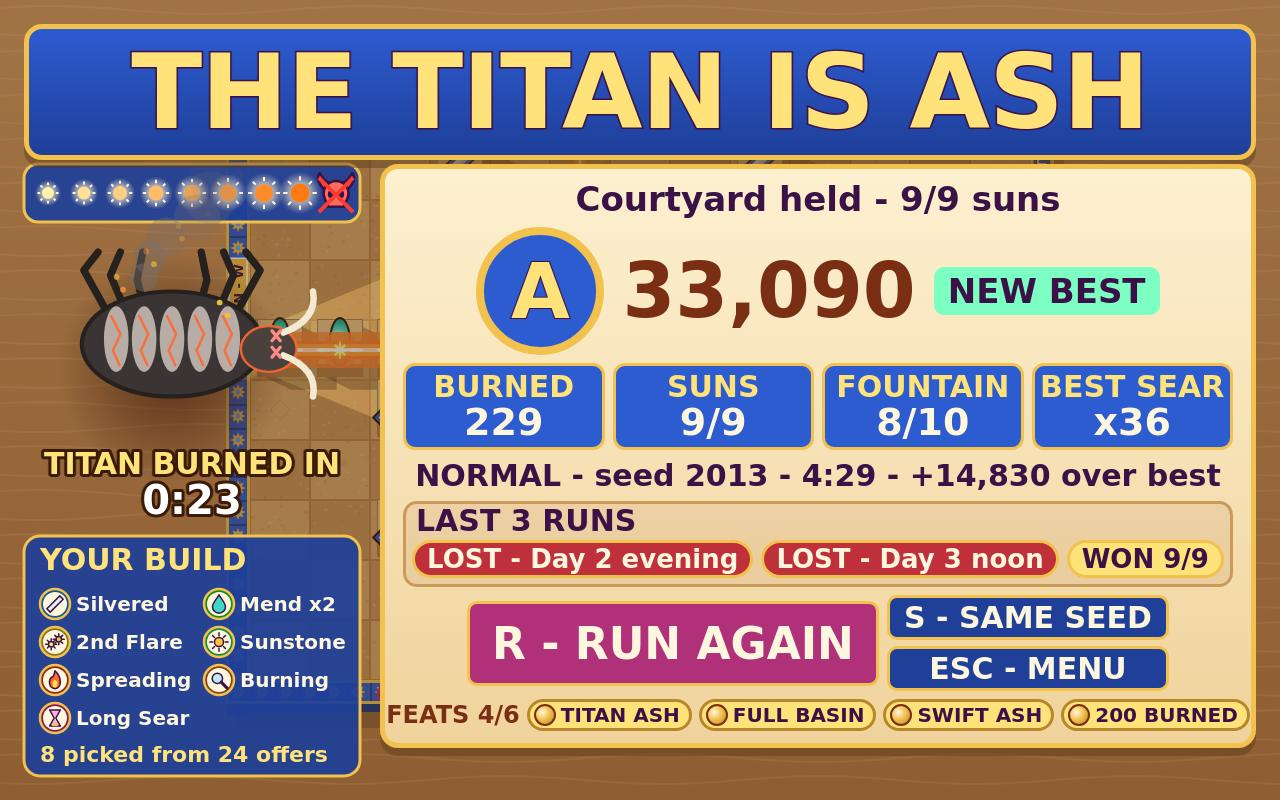
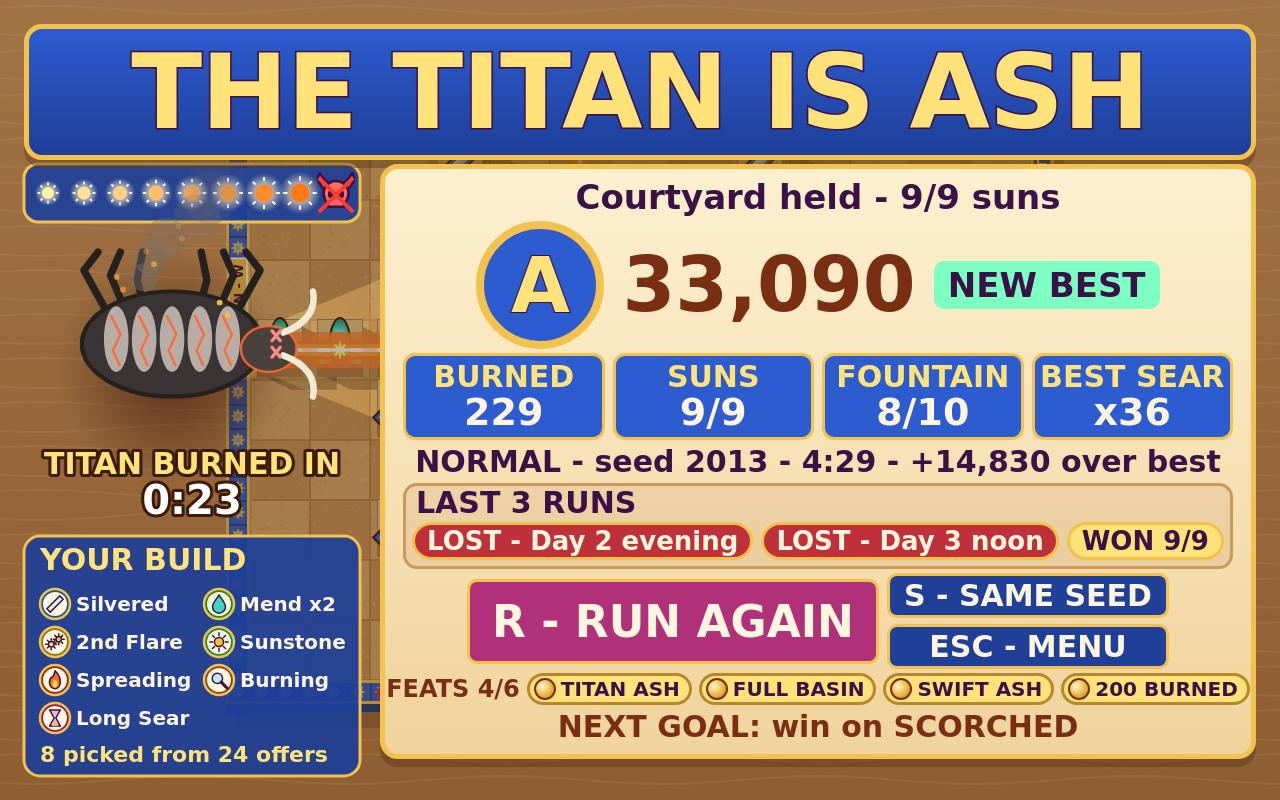
Bring back BEST (score tile and beside PLAY), DRY = RUN LOST and NEXT GOAL; drop the dial letters and the flare panel's SPACE so the cover has fewer text items; truth-checked

Changed region(s): [[0.2812, 0.2188, 1.0, 0.9688]]

diff --git a/game/style.css b/game/style.css
@@ -26,9 +26,9 @@ button.big:hover { background: #cf3f93; }
 .rule-win span { color: #ffe27a; }
 .rule-lose span { color: #ffb0a8; }
 .title-card { position: absolute; left: 24px; top: 522px; bottom: 66px; width: 680px; box-sizing: border-box; display: flex; flex-direction: column; align-items: center; justify-content: space-between; padding: 8px 14px; background: rgba(31, 63, 153, 0.8); border: 4px solid #f2c14e; border-radius: 18px; }
-#play-button { font-size: 52px; padding: 0 80px; }
-.play-row { display: flex; align-items: center; gap: 18px; }
-.featcount { font: 900 26px system-ui, sans-serif; color: #3b1247; background: #ffe27a; border: 3px solid #b8862c; border-radius: 16px; padding: 4px 14px; white-space: nowrap; }
+#play-button { font-size: 52px; padding: 0 44px; }
+.play-row { display: flex; align-items: center; gap: 14px; }
+.featcount { font: 900 24px system-ui, sans-serif; color: #3b1247; background: #ffe27a; border: 3px solid #b8862c; border-radius: 16px; padding: 4px 14px; white-space: nowrap; }
 .start-hint { margin: 0; font: 900 34px system-ui, sans-serif; color: #ffe27a; white-space: nowrap; letter-spacing: 0; }
 .picker { display: flex; gap: 8px; width: 100%; }
 .diff { flex: 1; display: flex; flex-direction: column; align-items: center; padding: 0 6px 2px; background: #2d5bd0; border-radius: 16px; letter-spacing: 0; }
@@ -89,7 +89,7 @@ kbd { display: inline-block; min-width: 30px; padding: 0 5px; font: 900 24px sys
 .results-head { position: absolute; left: 24px; right: 24px; top: 24px; height: 126px; display: flex; align-items: center; justify-content: center; overflow: hidden; background: linear-gradient(#2d5bd0, #1f3f99); border: 5px solid #f2c14e; border-radius: 18px; box-shadow: 0 8px 0 rgba(91, 58, 30, 0.45); }
 #results-title { margin: 0; width: max-content; white-space: nowrap; font: 900 104px system-ui, sans-serif; line-height: 1; letter-spacing: -1px; color: #ffe27a; -webkit-text-stroke: 3px #3b1247; paint-order: stroke fill; transform: scaleX(var(--fit, 1)); }
 .lost #results-title { color: #ff8a8a; }
-.sheet.results { position: absolute; right: 24px; top: 164px; width: 876px; box-sizing: border-box; margin: 0; padding: 10px 18px 12px; gap: 8px; background: linear-gradient(#fdf0d0, #f0d39c); border: 5px solid #f2c14e; box-shadow: 0 8px 0 rgba(91, 58, 30, 0.45); }
+.sheet.results { position: absolute; right: 24px; top: 164px; width: 876px; box-sizing: border-box; margin: 0; padding: 8px 18px 10px; gap: 4px; background: linear-gradient(#fdf0d0, #f0d39c); border: 5px solid #f2c14e; box-shadow: 0 8px 0 rgba(91, 58, 30, 0.45); }
 .lost .sheet.results { border-color: #ff8a8a; }
 .results .sub { margin: 0; font-size: 34px; font-weight: 900; color: #3b1247; text-shadow: none; }
 .score { font: 900 76px system-ui, sans-serif; line-height: 1; color: #7a2e14; display: flex; align-items: center; gap: 18px; }
@@ -101,7 +101,8 @@ kbd { display: inline-block; min-width: 30px; padding: 0 5px; font: 900 24px sys
 .stats div { flex: 1; min-width: 0; display: flex; flex-direction: column; align-items: center; justify-content: center; padding: 4px 6px; background: #2d5bd0; border: 3px solid #f2c14e; border-radius: 12px; overflow: hidden; }
 .stats small { display: inline-block; font-size: 30px; font-weight: 900; color: #ffe27a; line-height: 1.1; white-space: nowrap; transform: scaleX(var(--fit, 1)); }
 .stats b { font-size: 38px; font-weight: 900; color: #fff6df; line-height: 1.05; white-space: nowrap; }
-.meta { margin: 0; font: 900 30px system-ui, sans-serif; color: #3b1247; white-space: nowrap; }
+.meta, .next-goal { margin: 0; font: 900 30px system-ui, sans-serif; color: #3b1247; white-space: nowrap; }
+.next-goal { color: #7a2e14; }
 .feats { display: flex; align-items: center; justify-content: center; gap: 7px; }
 .feats b { font: 900 24px system-ui, sans-serif; color: #7a2e14; white-space: nowrap; }
 .feats .feat { display: flex; align-items: center; gap: 5px; padding: 1px 9px 1px 4px; font: 900 20px system-ui, sans-serif; color: #3b1247; background: #ffe27a; border: 3px solid #b8862c; border-radius: 16px; white-space: nowrap; }

diff --git a/game/src/render/hud.js b/game/src/render/hud.js
@@ -20,8 +20,8 @@ const INK = '#FFF6DF';
 const GOLD = '#F2C14E';
 const FONT = 'system-ui, "Segoe UI", sans-serif';
 const PANEL_W = 212;
-/** The left panel: sun dial, then the FOUNTAIN pips (the next sun and the lose rule are said once, elsewhere). */
-const LEFT_PANEL_H = 250;
+/** The left panel: sun dial, then the FOUNTAIN pips with DRY = RUN LOST under them (the next sun is the pill's). */
+const LEFT_PANEL_H = 282;
 const LEFT_X = 6;
 const RIGHT_X = VIEW_W - PANEL_W - 6;
 
@@ -200,7 +200,6 @@ function drawSunDial(ctx, run, cx, cy) {
       ctx.stroke();
       ctx.setLineDash([]);
     }
-    text(ctx, wall[0].toUpperCase(), gx, gy + (wall === 'north' ? -22 : 30), 15, INK, 'center', 900);
   }
 }
 
@@ -241,6 +240,7 @@ function drawFountainPips(ctx, run, y) {
       ctx.stroke();
     }
   }
+  fitLine(ctx, ['EMPTY = RUN LOST', 'DRY = RUN LOST'], LEFT_X + PANEL_W / 2, y + 100, PANEL_W - 20, 20, '#FFB0B0', 'center');
 }
 
 
@@ -396,6 +396,8 @@ function drawRightPanel(ctx, run, ui) {
   panel(ctx, x0, 8, PANEL_W, 128);
   text(ctx, 'SCORE', x0 + 12, 30, 15, INK, 'left', 900);
   text(ctx, run.score.toLocaleString('en-US'), x0 + PANEL_W - 10, 66, 32, '#FFF2A8', 'right', 900);
+  // BEST from the save (a difficulty never finished says so: no "BEST 0").
+  text(ctx, ui.best > 0 ? `BEST ${ui.best.toLocaleString('en-US')}` : 'NO BEST YET', x0 + PANEL_W - 10, 90, 15, '#FFD9A0', 'right', 900);
   drawComboLine(ctx, run, x0, 120);
   panel(ctx, x0, 142, PANEL_W, 62);
   text(ctx, NAMES.currency, x0 + 12, 170, 15, INK, 'left', 900);
@@ -642,10 +644,10 @@ function drawHotbar(ctx, run, ui) {
     ctx.arc(fx + 30, HOTBAR.y + 38, 24, -Math.PI / 2, -Math.PI / 2 + Math.PI * 2 * (run.flareLeft / BEAM.flareSeconds));
     ctx.stroke();
   }
-  text(ctx, 'SPACE', fx + 62, HOTBAR.y + 26, 15, GOLD, 'left', 900);
-  text(ctx, NAMES.flare, fx + 62, HOTBAR.y + 48, 20, INK, 'left', 900);
+  // The key is in the key line (SPACE flare); the panel says what and whether it is ready.
+  text(ctx, NAMES.flare, fx + 62, HOTBAR.y + 36, 20, INK, 'left', 900);
   const flareState = run.flareLeft > 0 ? 'BURNING' : ready ? 'READY' : run.phase === 'wave' ? 'USED' : 'NEXT SUN';
-  text(ctx, flareState, fx + 62, HOTBAR.y + 69, 15, ready ? '#7DFFC4' : '#FFF2A8', 'left', 900);
+  text(ctx, flareState, fx + 62, HOTBAR.y + 60, 15, ready ? '#7DFFC4' : '#FFF2A8', 'left', 900);
   ctx.globalAlpha = 1;
   if (run.phase === 'build') {
     const bx = fx + 150;

diff --git a/game/src/ui/menus.js b/game/src/ui/menus.js
@@ -8,7 +8,7 @@ import { waveRoster } from '../waves.js';
 import { rankFor } from '../combat.js';
 import { runSummary } from '../sim.js';
 import { loadFeats } from '../save.js';
-import { draftContext, draftHeal, draftHint, historyChip, titleRules } from '../announce.js';
+import { draftContext, draftHeal, draftHint, historyChip, nextGoal, titleRules } from '../announce.js';
 import { drawCharmGlyph } from '../render/charms.js';
 import { drawHowtoPicture } from '../render/howto.js';
 import { drawRuleIcon } from '../render/ruleicons.js';
@@ -62,6 +62,8 @@ export function showTitle(menus, bestFor, selected) {
   }).join('');
   el('rule-scope').textContent = SCOPE_LINE;
   el('feats-count').textContent = `FEATS ${loadFeats().length}/${FEATS.length}`;
+  const best = bestFor(selected);
+  el('title-best').textContent = best.played ? `BEST ${best.score.toLocaleString('en-US')}` : 'NO BEST YET';
   // The rules table: icon, gold tag, one line per rule (announce.titleRules, numbers from config).
   el('title-rules').innerHTML = titleRules()
     .map((r) => `<div class="rule rule-${r.icon}"><canvas width="36" height="36" data-icon="${r.icon}"></canvas><b>${escapeHtml(r.tag)}</b><span>${escapeHtml(r.line)}</span></div>`)
@@ -168,6 +170,7 @@ export function showResults(menus, run, record, history) {
     : '';
   // FEATS this run earned, as gold medals (config FEATS, tested on the finished run).
   const earned = runSummary(run).feats;
+  el('results-next').textContent = nextGoal(run);
   el('results-feats').innerHTML = `<b>FEATS ${earned.length}/${FEATS.length}</b>` + earned.map((id) => `<span class="feat"><i></i>${escapeHtml(FEATS.find((f) => f.id === id).name)}</span>`).join('');
 }
 

diff --git a/game/src/announce.js b/game/src/announce.js
@@ -1,6 +1,6 @@
 // The courtyard's voice: turns notable sim events into the three-line event log and the big
 // banner over the board. Pure sim state (no DOM), so screenshots can be checked against it.
-import { NAMES, SCORING, WAVE_COUNT } from './config.js';
+import { DIFFICULTIES, DIFFICULTY_ORDER, NAMES, SCORING, WAVE_COUNT } from './config.js';
 import { sunApertureFor } from './sun.js';
 
 const LOG_LINES = 3;
@@ -106,4 +106,11 @@ export function draftHint(run) {
 /** One RUN HISTORY chip on the results screen, from a saved run summary. */
 export function historyChip(h) {
   return h.outcome === 'won' ? `WON ${h.suns}/${WAVE_COUNT}` : `LOST - Day ${h.day} ${h.phase.toLowerCase()}`;
+}
+
+/** What to aim for next, from a finished run's outcome and difficulty (the results' NEXT GOAL line). */
+export function nextGoal(run) {
+  if (run.phase !== 'won') return `NEXT GOAL: hold ${run.stats.wavesCleared + 1} ${NAMES.suns.toLowerCase()}`;
+  const harder = DIFFICULTY_ORDER[DIFFICULTY_ORDER.indexOf(run.difficultyId) + 1];
+  return harder ? `NEXT GOAL: win on ${DIFFICULTIES[harder].name}` : `NEXT GOAL: beat ${run.score.toLocaleString('en-US')}`;
 }

diff --git a/game/index.html b/game/index.html
@@ -27,7 +27,7 @@
     </div>
     <div id="title-rules" class="rules-table"></div>
     <div class="title-card">
-      <div class="play-row"><button id="play-button" class="big" data-action="play">PLAY</button><span id="feats-count" class="featcount"></span></div>
+      <div class="play-row"><button id="play-button" class="big" data-action="play">PLAY</button><span id="title-best" class="featcount"></span><span id="feats-count" class="featcount"></span></div>
       <p id="start-hint" class="start-hint">CLICK PLAY OR PRESS ENTER</p>
       <div id="difficulty-picker" class="picker"></div>
     </div>
@@ -104,6 +104,7 @@
         </div>
       </div>
       <div id="results-feats" class="feats"></div>
+      <p id="results-next" class="next-goal"></p>
     </div>
   </section>
 </div>

diff --git a/game/src/testhook.js b/game/src/testhook.js
@@ -97,6 +97,7 @@ function resultsText() {
     capElsewhere: elsewhere.length,
     chips: [...strip.querySelectorAll('.chip')].map((n) => ({ text: n.textContent.trim(), won: n.classList.contains('won') })),
     featsLabel: document.querySelector('#results-feats b')?.textContent.trim() ?? '',
+    next: document.getElementById('results-next').textContent.trim(),
     feats: [...document.querySelectorAll('#results-feats .feat')].map((n) => n.textContent.trim()),
   };
 }

diff --git a/NOTES.md b/NOTES.md
@@ -286,6 +286,13 @@
   blue/gold prism light, red-orange for red light (red + gold lighten to orange, never lilac); tinted
   core 9.5 px (cap 11) and a 3 px white-hot centre; +8% while a SEAR combo is live. Kept: no white
   cell squares, lit panes glow on the sprite. Cover: 0 blown 32 px blocks.
+- The three cues the A/B missed are back: BEST under SCORE (NO BEST YET before a first finished run),
+  BEST beside PLAY on the title (the selected difficulty's saved best: BEST 33,090, with FEATS 4/6),
+  DRY = RUN LOST under the fountain drops, NEXT GOAL under the FEATS row on results
+  (announce.nextGoal). Same commit drops duplicates on the cover: the dial's N/W/E letters (the wall
+  tags say SUN - N/W/E) and the flare panel's SPACE (the key line says SPACE flare). Cover canvas text
+  items 60 -> 58. check-shot-truth: NEXT GOAL vs the replayed run, title BEST vs the saved runs, and
+  nothing in the title card sticks out of it.
 
 ## Next
 - Field benchmark 5: items 1-11 all committed (21:45 UTC). Open from older sections: staging below,
